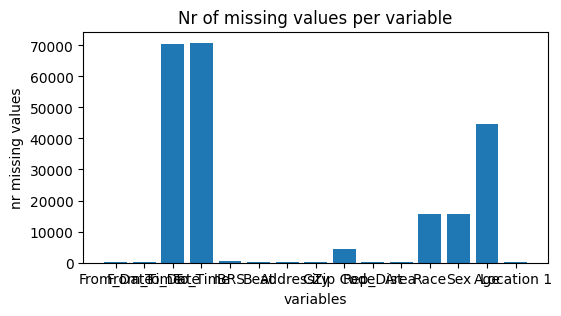
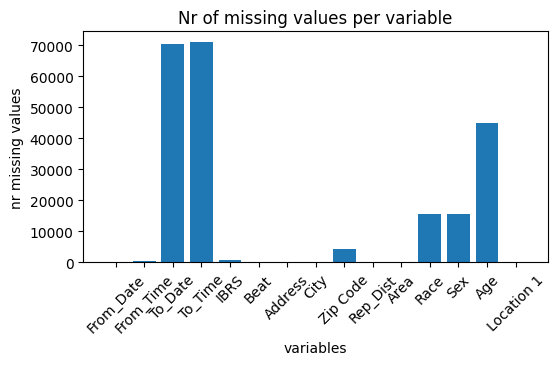
improved graphics

Changed region(s): [[0.0, 0.0285, 1.0, 0.9684]]

diff --git a/Crime Data/Data_Analysis.py b/Crime Data/Data_Analysis.py
@@ -72,9 +72,9 @@ class Data_Analysis:
             nr = data[var].isna().sum()
             if nr > 0:
                 mv[var] = nr
-
         plt.figure(figsize=(6, 3))
-        plt.bar(tuple(mv.keys()),list(mv.values()))
+        plt.bar(tuple(mv.keys()), list(mv.values()))
+        plt.xticks(rotation=45)
         plt.title('Nr of missing values per variable')
         plt.xlabel('variables')
         plt.ylabel('nr missing values')
@@ -189,6 +189,19 @@ class Data_Analysis:
         plt.savefig(f'Data_Profiling/Correlation/correlations_numeric.png')
         # now for the other types
         # question: can we do correlations between types of different kind?
+        '''
+        numerical_symbolic = symbolic_vars.apply(lambda x: pd.factorize(x)[0])
+        numerical = data[variable_types['Numeric']]
+        all_numerical = numerical_symbolic + numerical
+        corr_mtx = all_numerical.corr()
+        print(corr_mtx)
+        heatmap(abs(corr_mtx), xticklabels=corr_mtx.columns, yticklabels=corr_mtx.columns, annot=True, cmap='Greens')
+        plt.title('Correlation analysis all')
+        plt.savefig('Data_Profiling/Correlation/correlation_analysis_symbolic_numerical.png')
+        '''
+
+
+
 
     def each_variable_vs_date(self):
         data = self.data.copy()
@@ -199,15 +212,14 @@ class Data_Analysis:
             plt.title(variable + 'vs Date')
             plt.savefig('Data_Profiling/Distribution/VS_DATE' + variable + 'vsDate.png')
 
+
     def data_profiling(self):
-        '''
         self.data_dimensionality()
         self.number_of_variables_per_type()
         self.missing_values()
         self.data_granularity()
         self.data_distribution()
         self.correlations()
-        '''
         self.each_variable_vs_date()
 
 
